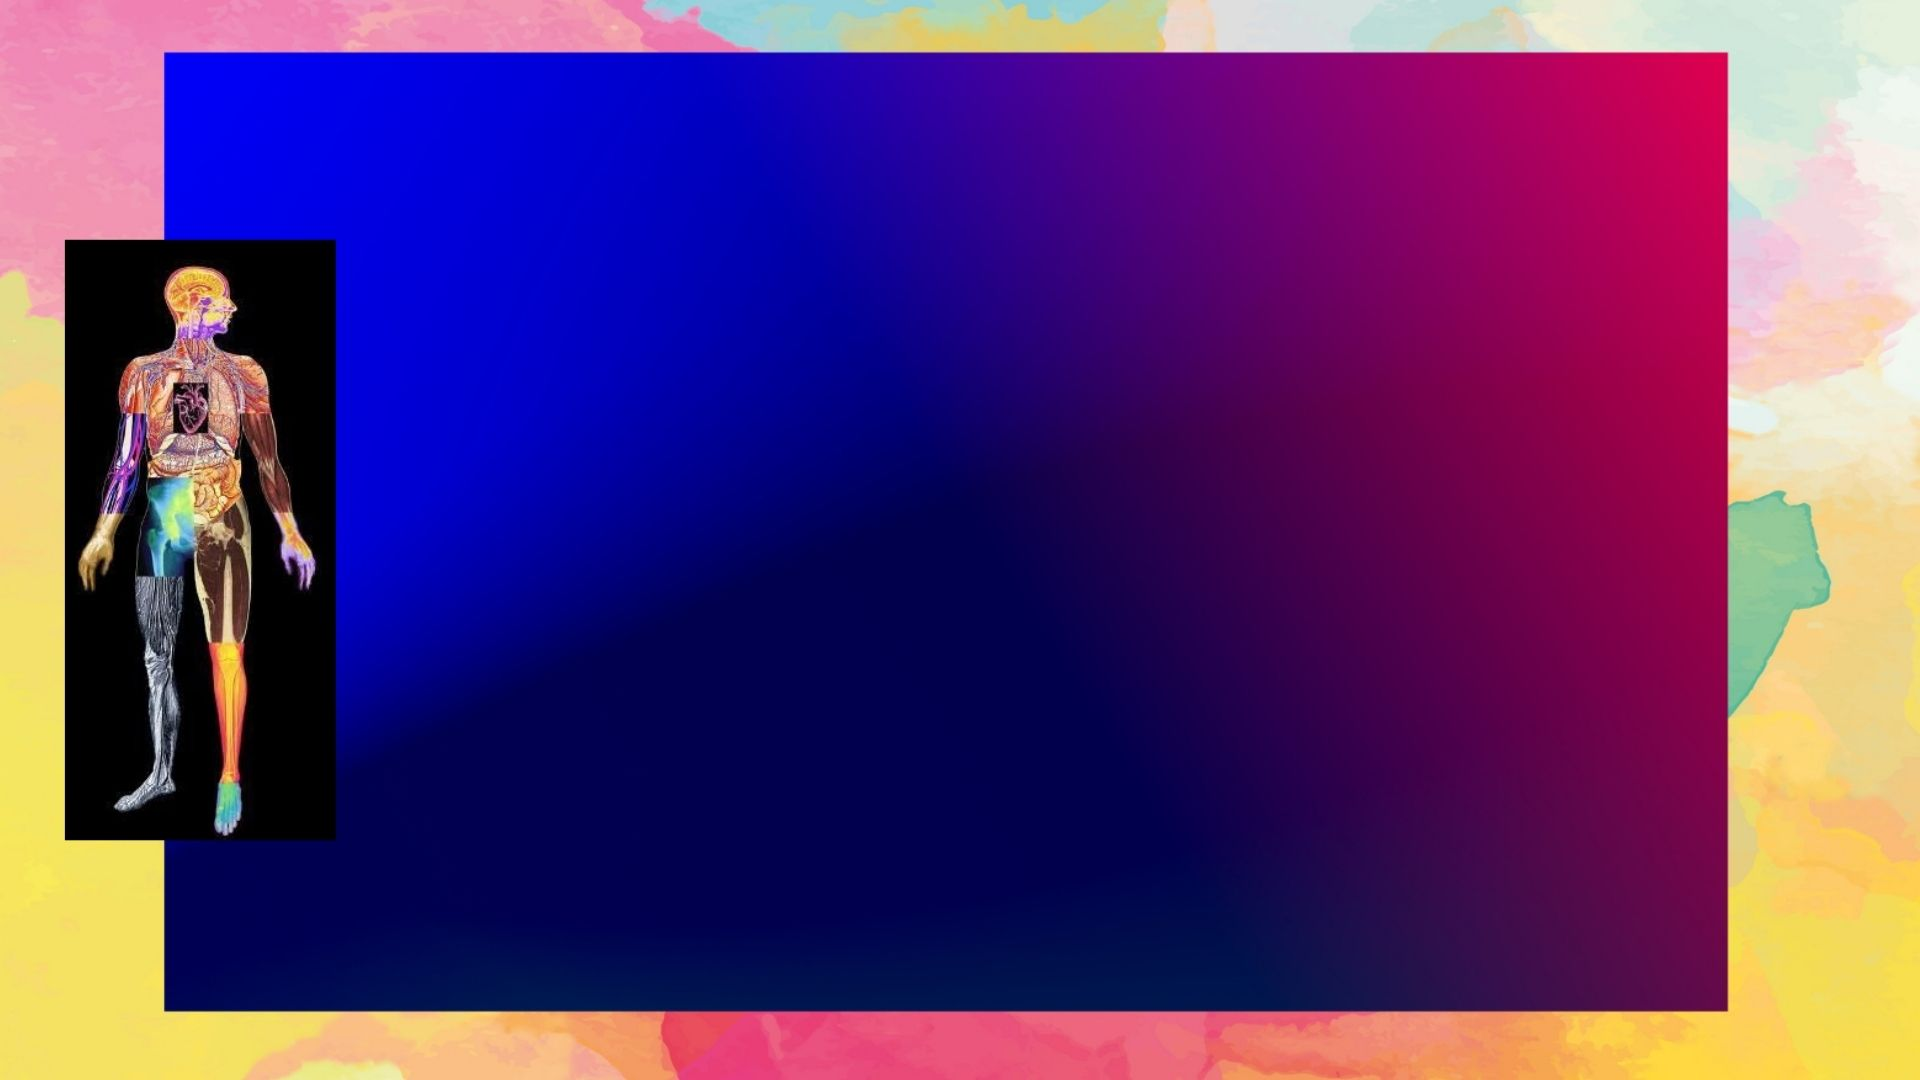
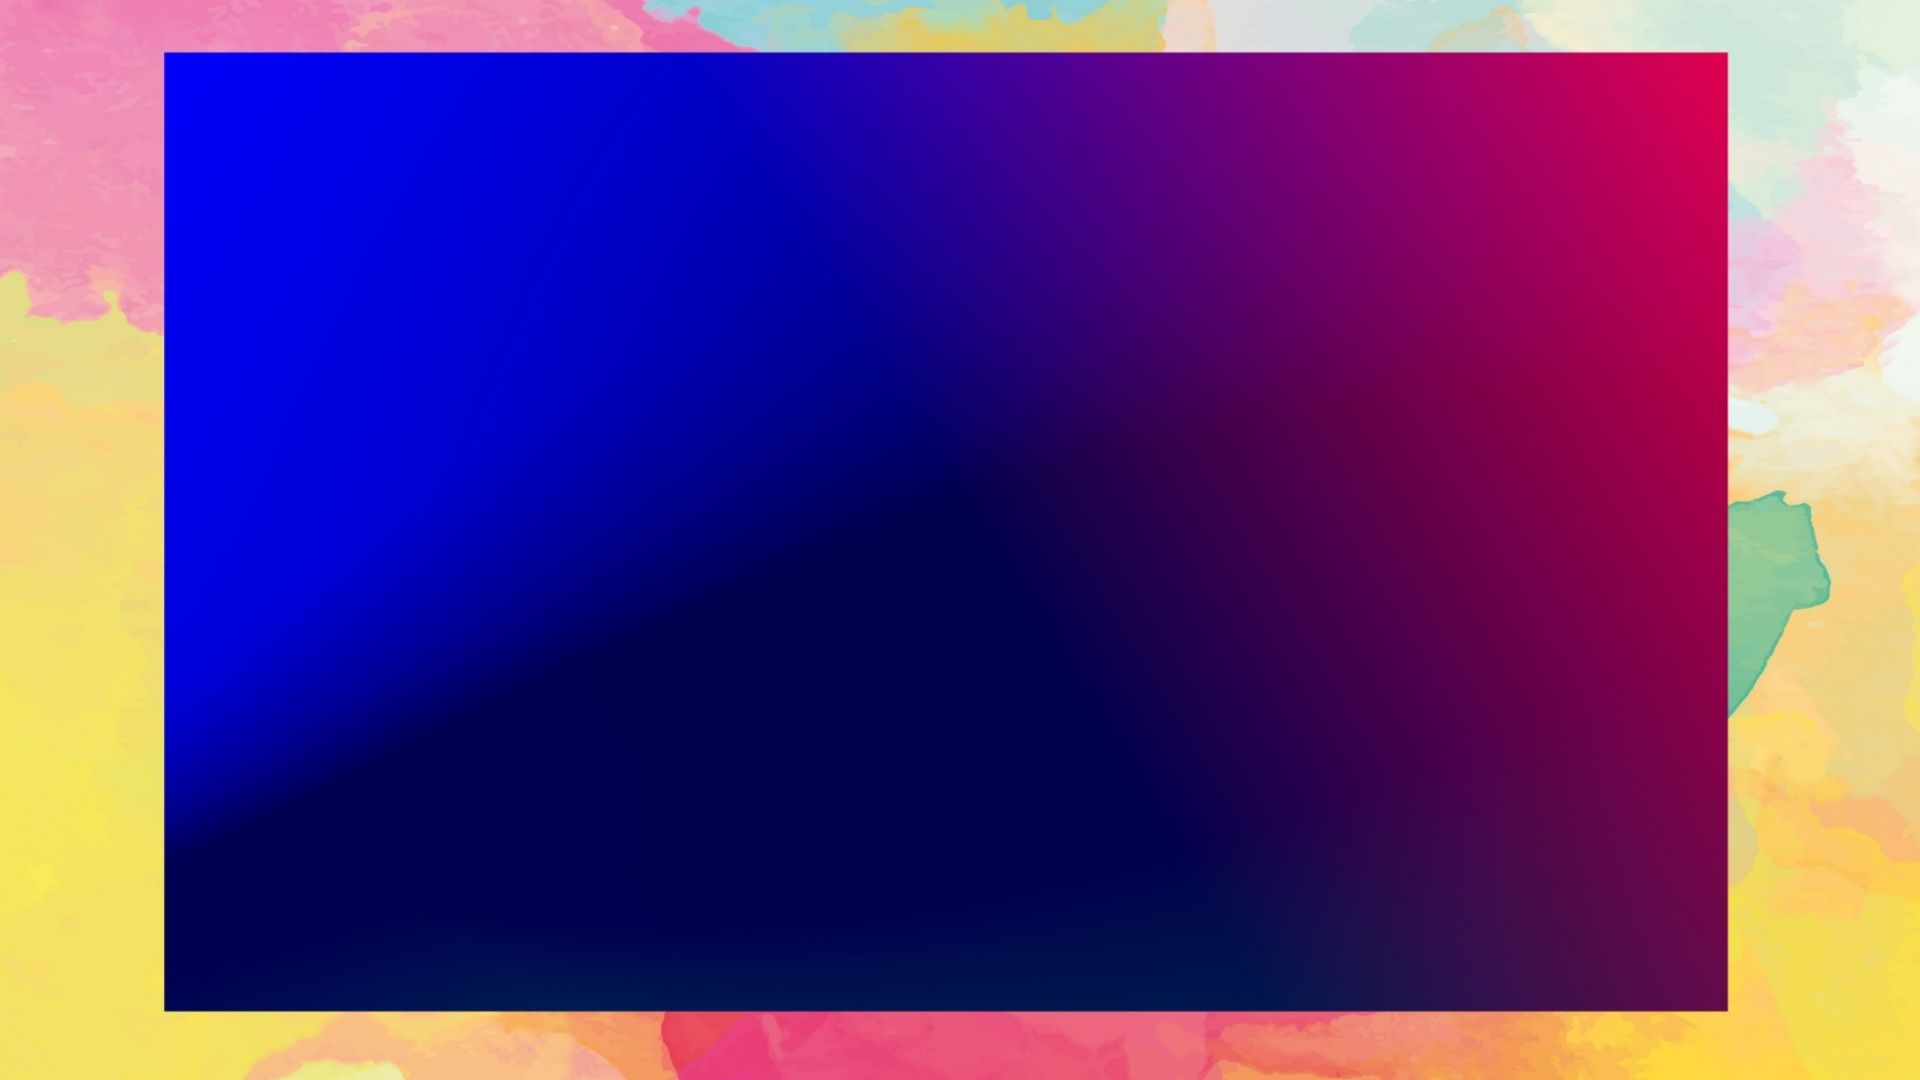
changed the img for human html

Changed region(s): [[0.0312, 0.2139, 0.1875, 0.7944]]

diff --git a/human.html b/human.html
@@ -13,8 +13,9 @@
    
 </head>
 <body>
-    <div class="h_img">
-       <img src="assets/images/human_bg.jpg" alt="background pic"> 
+    <div >
+       <img class="h_img" src="assets/images/human_bg.jpg" alt="background pic">
+       <img class="anatomy"  src="assets/images/anatomy.jpeg" alt=""> 
       
     </div>
     <script src = "assets/js/script.js"></script>

diff --git a/assets/css/human.css b/assets/css/human.css
@@ -2,9 +2,16 @@
     margin: 0;
     padding: 0%;
 }
-.h_img img {
+.h_img {
     width: 100%;
     min-height: 100vh;
+    position: relative;
 }
+.anatomy {
+  position: absolute;
+  bottom: 50px;
+
+}
+
     
     
